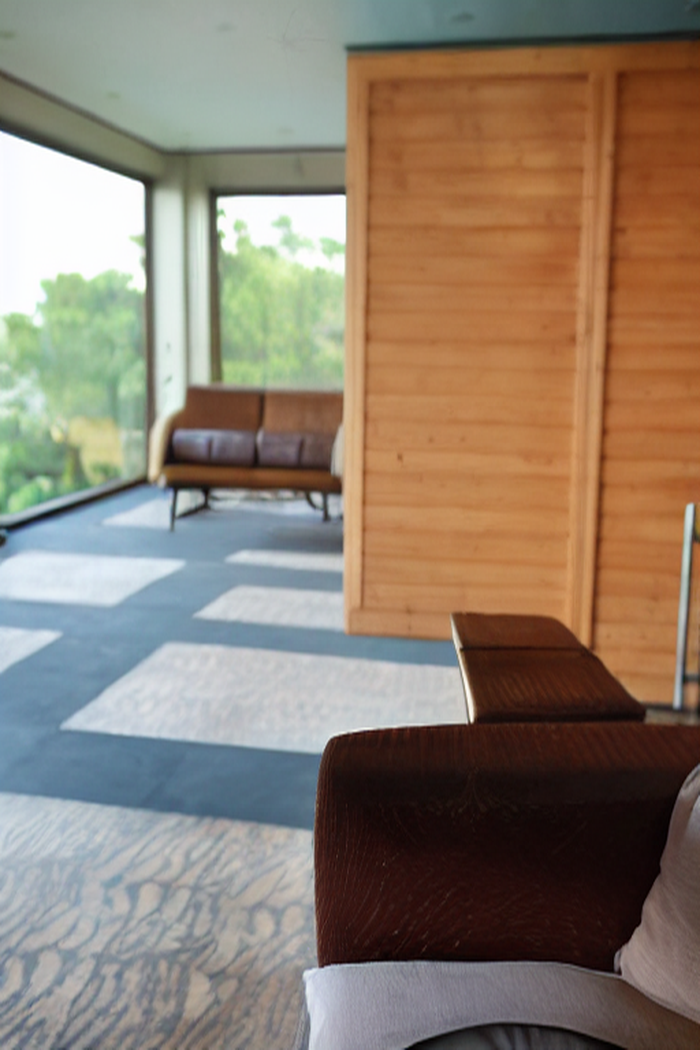
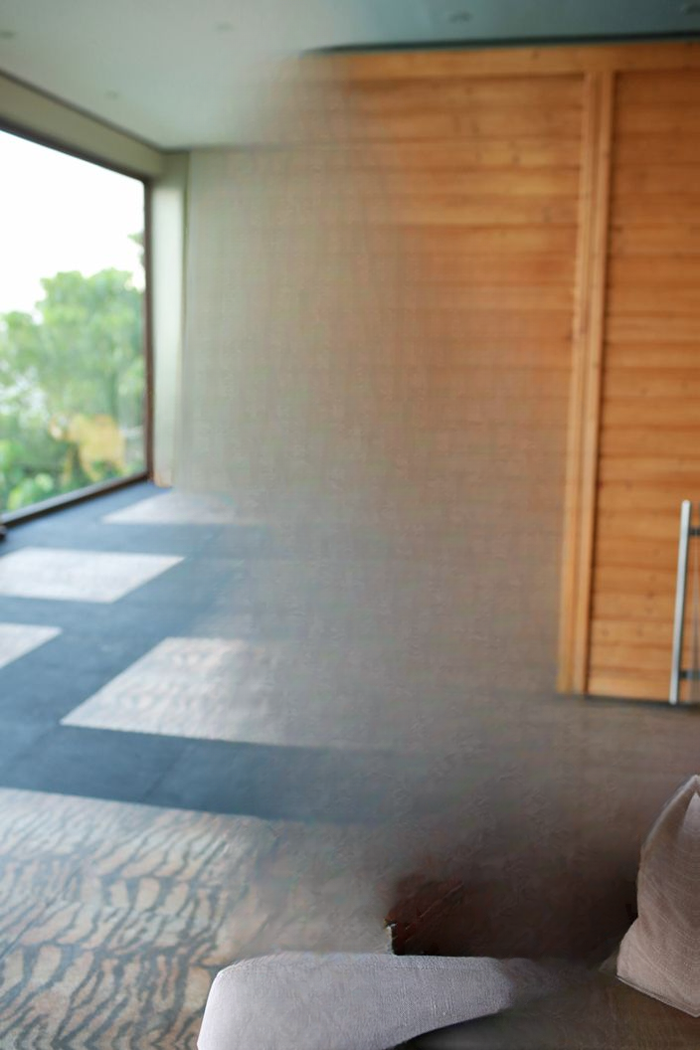
提质: isnet-general-use 抠图 + LaMa 修复替换 u2net/SD-inpainting
- lama-bgfill.py: matte(matte.png) + 背景补全(bgfill.png) 一键脚本（离线, Mac MPS）
- isnet-general-use: 人物轮廓精准（椅子等背景物正确排除）, 替换 birefnet-portrait(溢出)/u2net(毛糙)
- LaMa big-lama.pt: 修复输出边缘干净, 替换 CF SD1.5-inpainting（零 API/零 neurons/完全离线）
- 组件 bg-src/matte-src 接口不变, demo 三格验收通过（106k/107k 面, 泵帧采样 88-100% 覆盖）
- 移 aside 3d-photo-inpainting 上游 .git（保留 attribution）

diff --git a/lama-bgfill.py b/lama-bgfill.py
@@ -1,0 +1,26 @@
+# lama-bgfill.py — isnet-general-use matte + LaMa 修复 → 背景补全（离线, Mac MPS）
+# 用法: python lama-bgfill.py <stem>...   （需 demo/img/<stem>.jpg；输出 .matte.png + .bgfill.png）
+# 依赖: rembg, simple-lama-inpainting（3d-photo-inpainting/.venv）
+import os
+import sys
+
+REPO = os.path.dirname(os.path.abspath(__file__))
+DEMO = os.path.join(REPO, 'depth-component', 'demo', 'img')
+
+def main(stems):
+    from rembg import remove, new_session
+    from simple_lama_inpainting import SimpleLama
+    from PIL import Image, ImageFilter
+    session = new_session('isnet-general-use')
+    lama = SimpleLama()
+    for stem in stems:
+        img = Image.open(os.path.join(DEMO, stem + '.jpg')).convert('RGB')
+        matte = remove(img, session=session, only_mask=True)
+        matte.save(os.path.join(DEMO, stem + '.matte.png'))
+        mask = matte.filter(ImageFilter.MaxFilter(13)).filter(ImageFilter.GaussianBlur(6))
+        out = lama(img, mask).resize(img.size, Image.LANCZOS)
+        out.save(os.path.join(DEMO, stem + '.bgfill.png'))
+        print('✔', stem, 'isnet matte + lama bgfill', out.size)
+
+if __name__ == '__main__':
+    main(sys.argv[1:] or ['w167-0'])
